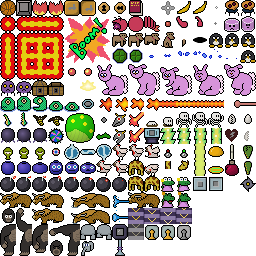
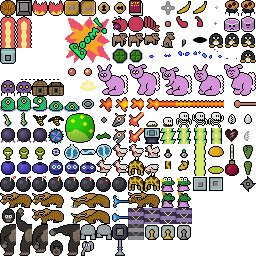
Flamethrower

Changed region(s): [[0.0, 0.0625, 0.25, 0.3125]]

diff --git a/src/game/sprites/ps_sprite_flamethrower.c b/src/game/sprites/ps_sprite_flamethrower.c
@@ -1,0 +1,236 @@
+#include "ps.h"
+#include "game/ps_sprite.h"
+#include "game/ps_game.h"
+#include "scenario/ps_scenario.h"
+#include "scenario/ps_screen.h"
+#include "scenario/ps_blueprint.h"
+#include "util/ps_geometry.h"
+#include "akgl/akgl.h"
+
+#define PS_FLAMETHROWER_DEFAULT_LENGTH 3
+#define PS_FLAMETHROWER_MAX_LENGTH     8
+
+#define PS_FLAMETHROWER_FRAME_TIME 15
+#define PS_FLAMETHROWER_FRAME_COUNT 2
+
+#define PS_FLAMETHROWER_COLOR_ACTIVE 0xff0000
+#define PS_FLAMETHROWER_COLOR_0      0x404040
+#define PS_FLAMETHROWER_COLOR_1      0xffff00
+
+/* Private sprite object.
+ */
+
+struct ps_sprite_flamethrower {
+  struct ps_sprite hdr;
+  int direction;
+  int length;
+  int animframe;
+  int animtime;
+  int active;
+  int initial;
+};
+
+#define SPR ((struct ps_sprite_flamethrower*)spr)
+
+/* Delete.
+ */
+
+static void _ps_flamethrower_del(struct ps_sprite *spr) {
+}
+
+/* Initialize.
+ */
+
+static int _ps_flamethrower_init(struct ps_sprite *spr) {
+  SPR->direction=PS_DIRECTION_NORTH;
+  SPR->length=PS_FLAMETHROWER_DEFAULT_LENGTH;
+  SPR->initial=1;
+  return 0;
+}
+
+/* Configure.
+ */
+
+static int _ps_flamethrower_configure(struct ps_sprite *spr,struct ps_game *game,const int *argv,int argc,const struct ps_sprdef *sprdef) {
+  if (argc>=1) {
+    spr->switchid=argv[0];
+    if (argc>=2) {
+      SPR->direction=argv[1];
+      if (argc>=3) {
+        SPR->length=argv[2];
+      }
+    }
+  }
+  if (!spr->switchid) SPR->active=1;
+  if ((SPR->direction<1)||(SPR->direction>4)) SPR->direction=PS_DIRECTION_NORTH;
+  if (SPR->length<1) SPR->length=PS_FLAMETHROWER_DEFAULT_LENGTH;
+  else if (SPR->length>PS_FLAMETHROWER_MAX_LENGTH) SPR->length=PS_FLAMETHROWER_MAX_LENGTH;
+  return 0;
+}
+
+static const char *_ps_flamethrower_get_configure_argument_name(int argp) {
+  switch (argp) {
+    case 0: return "switchid";
+    case 1: return "(1234)=(NSWE)";
+    case 2: return "length";
+  }
+  return 0;
+}
+
+/* First update.
+ */
+
+static int ps_flamethrower_setup(struct ps_sprite *spr,struct ps_game *game) {
+
+  /* If the grid is flipped from its blueprint, we must flip too. Check both axes. */
+  if (game&&game->scenario) {
+    struct ps_screen *screen=game->scenario->screenv+game->gridy*game->scenario->w+game->gridx;
+    switch (SPR->direction) {
+      case PS_DIRECTION_SOUTH: if (screen->xform&PS_BLUEPRINT_XFORM_VERT) SPR->direction=PS_DIRECTION_NORTH; break;
+      case PS_DIRECTION_NORTH: if (screen->xform&PS_BLUEPRINT_XFORM_VERT) SPR->direction=PS_DIRECTION_SOUTH; break;
+      case PS_DIRECTION_WEST: if (screen->xform&PS_BLUEPRINT_XFORM_HORZ) SPR->direction=PS_DIRECTION_EAST; break;
+      case PS_DIRECTION_EAST: if (screen->xform&PS_BLUEPRINT_XFORM_HORZ) SPR->direction=PS_DIRECTION_WEST; break;
+    }
+  }
+
+  return 0;
+}
+
+/* Look for burnable sprites in range, and burn them.
+ */
+
+static int ps_flamethrower_burn(struct ps_sprite *spr,struct ps_game *game) {
+  if (!game) return 0;
+  double left=spr->x-spr->radius;
+  double right=spr->x+spr->radius;
+  double top=spr->y-spr->radius;
+  double bottom=spr->y+spr->radius;
+  switch (SPR->direction) {
+    case PS_DIRECTION_NORTH: top-=SPR->length*PS_TILESIZE; break;
+    case PS_DIRECTION_SOUTH: bottom+=SPR->length*PS_TILESIZE; break;
+    case PS_DIRECTION_WEST: left-=SPR->length*PS_TILESIZE; break;
+    case PS_DIRECTION_EAST: right+=SPR->length*PS_TILESIZE; break;
+  }
+  struct ps_sprgrp *grp=game->grpv+PS_SPRGRP_FRAGILE;
+  int i=grp->sprc; while (i-->0) {
+    struct ps_sprite *victim=grp->sprv[i];
+    if (victim->x<left) continue;
+    if (victim->x>right) continue;
+    if (victim->y<top) continue;
+    if (victim->y>bottom) continue;
+    if (ps_sprite_receive_damage(game,victim,spr)<0) return -1;
+  }
+  return 0;
+}
+
+/* Update.
+ */
+
+static int _ps_flamethrower_update(struct ps_sprite *spr,struct ps_game *game) {
+
+  if (SPR->initial) {
+    SPR->initial=0;
+    if (ps_flamethrower_setup(spr,game)<0) return -1;
+  }
+
+  if (++(SPR->animtime)>=PS_FLAMETHROWER_FRAME_TIME) {
+    SPR->animtime=0;
+    if (++(SPR->animframe)>=PS_FLAMETHROWER_FRAME_COUNT) {
+      SPR->animframe=0;
+    }
+  }
+
+  if (SPR->active) {
+    if (ps_flamethrower_burn(spr,game)<0) return -1;
+  }
+
+  return 0;
+}
+
+/* Draw.
+ */
+
+static int _ps_flamethrower_draw(struct akgl_vtx_maxtile *vtxv,int vtxa,struct ps_sprite *spr) {
+  int vtxc=1;
+  if (SPR->active) vtxc+=SPR->length;
+  if (vtxc>vtxa) return vtxc;
+
+  vtxv[0].x=spr->x;
+  vtxv[0].y=spr->y;
+  vtxv[0].tileid=spr->tileid;
+  vtxv[0].size=PS_TILESIZE;
+  vtxv[0].a=0xff;
+  vtxv[0].ta=0;
+  vtxv[0].t=0;
+
+  if (SPR->active) {
+    vtxv[0].pr=PS_FLAMETHROWER_COLOR_ACTIVE>>16;
+    vtxv[0].pg=PS_FLAMETHROWER_COLOR_ACTIVE>>8;
+    vtxv[0].pb=PS_FLAMETHROWER_COLOR_ACTIVE;
+  } else if (SPR->animframe) {
+    vtxv[0].pr=PS_FLAMETHROWER_COLOR_1>>16;
+    vtxv[0].pg=PS_FLAMETHROWER_COLOR_1>>8;
+    vtxv[0].pb=PS_FLAMETHROWER_COLOR_1;
+  } else {
+    vtxv[0].pr=PS_FLAMETHROWER_COLOR_0>>16;
+    vtxv[0].pg=PS_FLAMETHROWER_COLOR_0>>8;
+    vtxv[0].pb=PS_FLAMETHROWER_COLOR_0;
+  }
+
+  switch (SPR->direction) {
+    case PS_DIRECTION_NORTH: vtxv[0].xform=AKGL_XFORM_NONE; break;
+    case PS_DIRECTION_SOUTH: vtxv[0].xform=AKGL_XFORM_FLIP; break;
+    case PS_DIRECTION_WEST: vtxv[0].xform=AKGL_XFORM_270; break;
+    case PS_DIRECTION_EAST: vtxv[0].xform=AKGL_XFORM_90; break;
+  }
+
+  if (SPR->active) {
+    struct ps_vector vector=ps_vector_from_direction(SPR->direction);
+    int i=1; for (;i<vtxc;i++) {
+      memcpy(vtxv+i,vtxv,sizeof(struct akgl_vtx_maxtile));
+      vtxv[i].x+=i*vector.dx*PS_TILESIZE;
+      vtxv[i].y+=i*vector.dy*PS_TILESIZE;
+      vtxv[i].tileid-=0x10;
+      if (SPR->animframe) vtxv[i].tileid++;
+    }
+    vtxv[vtxc-1].tileid-=0x10;
+  }
+  
+  return vtxc;
+}
+
+/* Set switch.
+ */
+
+static int _ps_flamethrower_set_switch(struct ps_game *game,struct ps_sprite *spr,int value) {
+  if (value) {
+    if (!SPR->active) {
+      SPR->active=1;
+    }
+  } else if (SPR->active) {
+    SPR->active=0;
+  }
+  return 0;
+}
+
+/* Type definition.
+ */
+
+const struct ps_sprtype ps_sprtype_flamethrower={
+  .name="flamethrower",
+  .objlen=sizeof(struct ps_sprite_flamethrower),
+
+  .radius=PS_TILESIZE>>1,
+  .shape=PS_SPRITE_SHAPE_SQUARE,
+  .layer=100,
+
+  .init=_ps_flamethrower_init,
+  .del=_ps_flamethrower_del,
+  .configure=_ps_flamethrower_configure,
+  .get_configure_argument_name=_ps_flamethrower_get_configure_argument_name,
+  .update=_ps_flamethrower_update,
+  .draw=_ps_flamethrower_draw,
+  
+  .set_switch=_ps_flamethrower_set_switch,
+
+};

diff --git a/src/game/ps_sprtype.c b/src/game/ps_sprtype.c
@@ -61,6 +61,7 @@ const struct ps_sprtype *ps_sprtype_by_name(const char *name,int namec) {
   if ((namec==11)&&!memcmp(name,"multipiston",11)) return &ps_sprtype_multipiston;
   if ((namec==8)&&!memcmp(name,"landmine",8)) return &ps_sprtype_landmine;
   if ((namec==8)&&!memcmp(name,"sawblade",8)) return &ps_sprtype_sawblade;
+  if ((namec==12)&&!memcmp(name,"flamethrower",12)) return &ps_sprtype_flamethrower;
 //INSERT SPRTYPE NAME TEST HERE
 
   return 0;
@@ -122,5 +123,6 @@ const struct ps_sprtype *ps_all_sprtypes[]={
   &ps_sprtype_multipiston,
   &ps_sprtype_landmine,
   &ps_sprtype_sawblade,
+  &ps_sprtype_flamethrower,
 //INSERT SPRTYPE REFERENCE HERE
 0};

diff --git a/src/game/ps_sprite.h b/src/game/ps_sprite.h
@@ -204,6 +204,7 @@ extern const struct ps_sprtype ps_sprtype_piston;
 extern const struct ps_sprtype ps_sprtype_multipiston;
 extern const struct ps_sprtype ps_sprtype_landmine;
 extern const struct ps_sprtype ps_sprtype_sawblade;
+extern const struct ps_sprtype ps_sprtype_flamethrower;
 //INSERT SPRTYPE DEFINITION HERE
 
 /* API for sprite types too trivial to warrant their own headers.

diff --git a/src/main/ps_main.c b/src/main/ps_main.c
@@ -81,7 +81,7 @@ static int ps_setup_test_game(struct ps_userconfig *userconfig) {
     if (ps_game_generate_test(ps_game,
       -1, // regionid, negative means random
       // blueprintid. At least one must have adequate HERO POI:
-      2,124
+      2,125
     )<0) return -1;
     
   } else { // Generate scenario with every blueprint.
